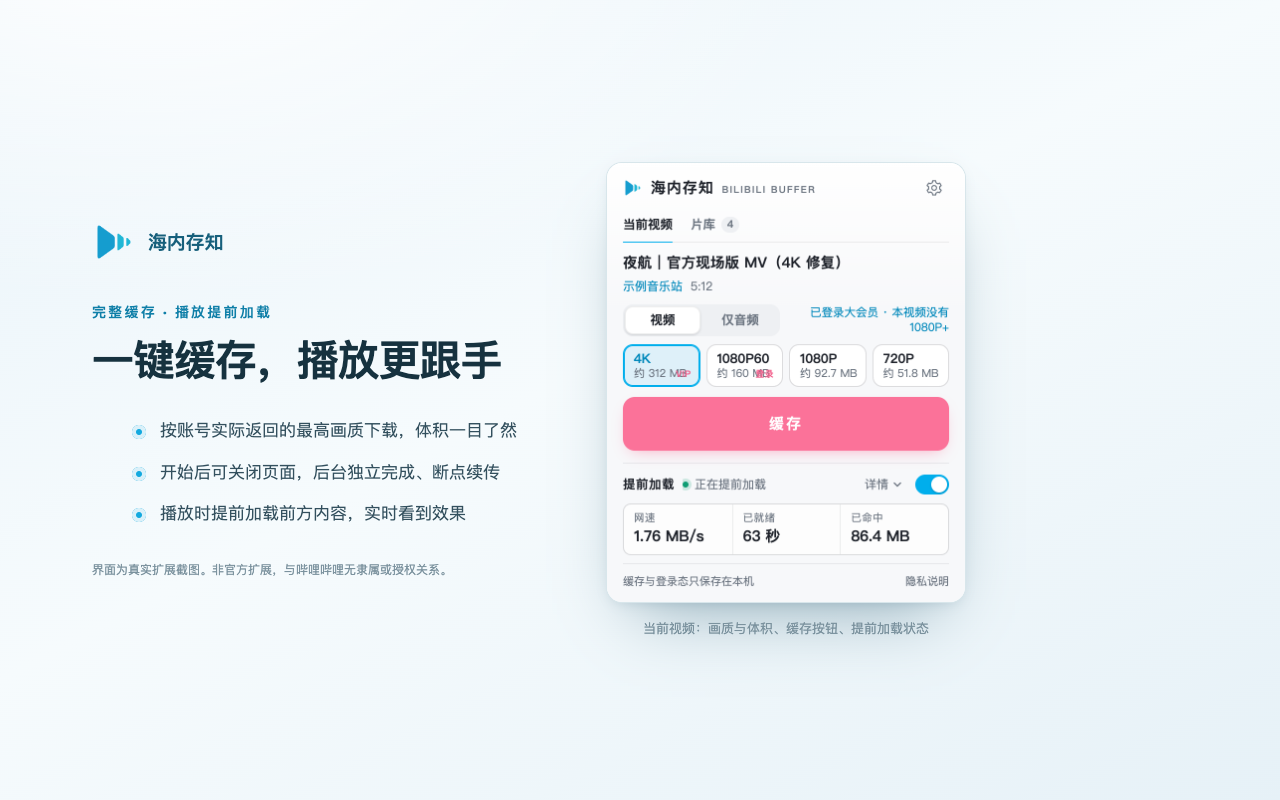
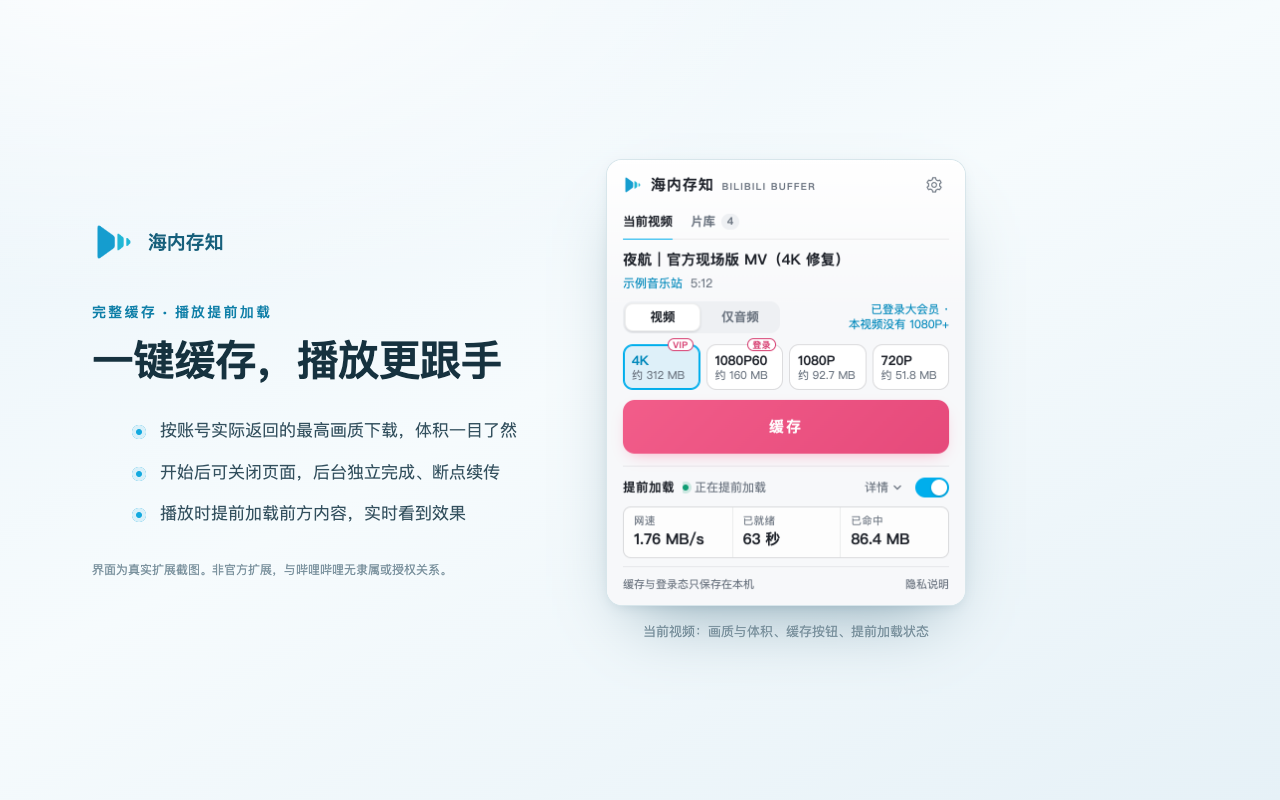
fix: keep quality badges clear of chip text and polish popup details
改了什么: 画质卡片的 VIP/登录 标记改为骑在右上边框上、脱离文档流的小胶囊，卡片改单列、收窄内边距，体积放不下时截断；账号说明按「 · 」分段、段内不换行；浅色/深色主按钮改为加深一档的粉色渐变；设置页眉加大返回按钮与标题间距；片库无封面时显示淡蓝渐变 + 播放三角占位；商店场景的版本号改读 manifest、截图前清掉脚本点击带来的焦点环，并重新生成截图。版本 2.12.2 → 2.12.3，同步 README、技术文档与开发日志。
为什么: 四档并排时卡片内容区约 55px，「约 312 MB」与标记互相压住、不带标记的体积也溢出；「1080P+」被单独挤到第二行；主按钮白字对比度仅约 2.6:1；离线时封面只剩一块灰。
验证: 先在 tests/run-popup-stability.mjs 补复现用例（修复前失败）；npm run check、npm test（223 通过）、npm run test:popup、npm run build 通过。

Changed region(s): [[0.4688, 0.2188, 0.75, 0.6875], [0.4688, 0.7188, 0.75, 0.8125], [0.7188, 0.2188, 0.75, 0.25]]

diff --git a/popup.css b/popup.css
@@ -21,7 +21,10 @@
   --blue-wash: rgba(0, 174, 236, 0.1);
   --pink: #fb7299;
   --pink-deep: #f25d8a;
-  --pink-fill: #fb7299;
+  /* 白字压在 #fb7299 上只有约 2.6:1；主按钮改用加深一档的同色相渐变（白字约 3.1–3.7:1），观感仍是 B 站粉。 */
+  --pink-fill: linear-gradient(135deg, #f25d8a, #e64a7b);
+  /* 小号粉色文字（画质卡片的 VIP/登录 标记）在白底上需要约 4.5:1。 */
+  --pink-ink: #d63a6e;
   --pink-glow: 0 6px 16px -8px rgba(251, 114, 153, 0.7);
   --success: #0f9d74;
   --warning: #b97a10;
@@ -73,7 +76,8 @@
     --blue-wash: rgba(58, 210, 255, 0.12);
     --pink: #ff6b9d;
     --pink-deep: #ff5590;
-    --pink-fill: linear-gradient(135deg, #ff7aa8, #ff5590);
+    --pink-fill: linear-gradient(135deg, #f8669a, #ea4580);
+    --pink-ink: #ff7aa8;
     --pink-glow: 0 8px 22px -10px rgba(255, 85, 144, 0.8);
     --success: #3ddc97;
     --warning: #ffb547;
@@ -274,6 +278,8 @@ svg { flex: none; }
 .current-owner { max-width: 60%; overflow: hidden; text-overflow: ellipsis; white-space: nowrap; }
 
 .format-controls { display: grid; gap: 8px; }
+/* 给骑边的 VIP/登录 标记留出空间，避免贴住上方的分段控件。 */
+.quality-row { padding-top: 3px; }
 .visually-hidden { position: absolute; width: 1px; height: 1px; overflow: hidden; clip-path: inset(50%); white-space: nowrap; }
 
 /* 内容二选一：等分的分段控件，选中项是一块抬起的浅色滑块。 */
@@ -304,17 +310,18 @@ svg { flex: none; }
   box-shadow: 0 1px 2px rgba(20, 26, 36, 0.14), inset 0 0 0 1px var(--line);
 }
 
-/* 画质：一排单选卡片，每张「短名 + 体积」；右上角小标记表示需要 VIP / 登录。 */
+/* 画质：一排单选卡片，每张「短名 + 体积」；需要 VIP / 登录的档位在右上角骑边挂一个小标记。
+   标记脱离文档流：四档并排时卡片内容区只有约 60px，「约 312 MB」已占满，再和标记同行必然互相压住。 */
 .quality-options { display: flex; flex-wrap: wrap; gap: 6px; }
 .quality-option {
   position: relative;
   display: grid;
   flex: 1 1 68px;
-  grid-template-columns: minmax(0, 1fr) auto;
-  align-items: baseline;
-  gap: 1px 2px;
+  grid-template-columns: minmax(0, 1fr);
+  gap: 1px;
   min-width: 0;
-  padding: 5px 8px 5px 10px;
+  /* 上内边距多 2px：文字盒顶端要低于骑边标记的下沿（卡片顶 + 6px）。 */
+  padding: 7px 8px 6px;
   border: 1px solid var(--line-strong);
   border-radius: 10px;
   background: var(--surface-raised);
@@ -327,11 +334,21 @@ svg { flex: none; }
 .quality-option:disabled[aria-checked="true"] { opacity: 1; }
 .quality-option-label { grid-column: 1 / -1; overflow: hidden; font-size: 13px; font-weight: 650; line-height: 1.25; text-overflow: ellipsis; white-space: nowrap; }
 .quality-option[aria-checked="true"] .quality-option-label { color: var(--blue-deep); }
-.quality-option-size { color: var(--ink-soft); font-size: 11px; line-height: 1.25; white-space: nowrap; }
+/* 字体更宽的平台（如 Windows 的雅黑）仍可能放不下，截断兜底；完整体积在卡片 title 里。 */
+.quality-option-size { overflow: hidden; color: var(--ink-soft); font-size: 11px; line-height: 1.25; text-overflow: ellipsis; white-space: nowrap; }
 .quality-option-tag {
-  color: var(--pink-deep);
+  position: absolute;
+  /* 高 13px、上移 7px：下沿正好落在卡片内边距上缘，不碰档位文字。 */
+  top: -7px;
+  right: 6px;
+  padding: 0 4px;
+  border: 1px solid currentColor;
+  border-radius: 999px;
+  background: var(--surface-raised);
+  color: var(--pink-ink);
   font-size: 9px;
   font-weight: 700;
+  line-height: 11px;
   letter-spacing: 0.04em;
 }
 .quality-empty { grid-column: 1 / -1; padding: 9px 0; color: var(--ink-soft); font-size: 12.5px; }
@@ -351,7 +368,12 @@ svg { flex: none; }
   font-size: 11.5px;
   line-height: 1.35;
   text-align: right;
+  /* 两行时尽量等长，避免「不全」这类两三个字被单独甩到第二行。 */
+  text-wrap: balance;
 }
+/* 分段整体折行而不是 nowrap：nowrap 会让一整句不含「 · 」的长警告变成一条不可断的长串，
+   把整列撑出右侧边距；inline-block + max-width 让短段整体换行，超长段仍可在段内折行。 */
+.field-note .text-segment { display: inline-block; max-width: 100%; }
 .field-note[data-tone="member"] { color: var(--blue-deep); }
 .field-note[data-tone="warning"] { color: var(--warning); }
 
@@ -544,16 +566,30 @@ svg { flex: none; }
   border-bottom: 1px solid var(--line);
 }
 .video-item:last-child { border-bottom: 0; }
+/* 封面来自 B 站图床：离线观看、图床被墙或任务没带封面时只剩底色，所以底色本身要像一张「视频占位」
+   （淡蓝渐变 + 播放三角），而不是一块灰。img 设为定位元素，加载成功时盖住占位图形。 */
 .cover-wrap {
   position: relative;
   width: 72px;
   height: 45px;
   overflow: hidden;
   border-radius: 6px;
-  background: var(--surface-soft);
+  background: linear-gradient(135deg, var(--blue-wash), transparent 75%), var(--surface-soft);
   box-shadow: inset 0 0 0 1px var(--line);
 }
-.cover-wrap img { width: 100%; height: 100%; object-fit: cover; }
+.cover-wrap::before {
+  content: "";
+  position: absolute;
+  inset: 0;
+  width: 12px;
+  height: 14px;
+  margin: auto;
+  background: var(--line-strong);
+  clip-path: polygon(0 0, 100% 50%, 0 100%);
+  /* 三角形重心在左 1/3，几何居中看起来偏左，右移 1px 做视觉居中。 */
+  transform: translateX(1px);
+}
+.cover-wrap img { position: relative; width: 100%; height: 100%; object-fit: cover; }
 .cover-status {
   position: absolute;
   right: 3px;
@@ -619,7 +655,7 @@ svg { flex: none; }
 
 /* ---- 设置 ------------------------------------------------------------------- */
 
-.settings-head { display: flex; align-items: center; gap: 4px; margin: -6px 0 6px -8px; }
+.settings-head { display: flex; align-items: center; gap: 8px; margin: -6px 0 6px -8px; }
 .settings-head h2 { font-size: 14.5px; font-weight: 640; letter-spacing: 0.02em; }
 .settings-group { display: grid; gap: 6px; padding: 10px 0; border-bottom: 1px solid var(--line); }
 .settings-group:last-child { border-bottom: 0; }

diff --git a/src/popup.js b/src/popup.js
@@ -565,7 +565,7 @@ function renderAuthNote(ladder) {
     text = "未登录：只能缓存公开画质"; tone = "warning"; title = "在当前 Chrome 登录 B 站后可缓存更高画质";
   }
   note.hidden = !text || isAudioMode() && tone !== "warning";
-  setText(note, text);
+  setSegmentedText(note, text);
   note.dataset.tone = tone;
   note.title = [title, ladder?.title].filter(Boolean).join("\n");
 }
@@ -1117,6 +1117,24 @@ function setAttr(element, name, value) {
 
 function setText(element, text) {
   if (element.textContent !== text) element.textContent = text;
+}
+
+/**
+ * 按「 · 」分段写入，每段作为整体折行：右对齐的短说明优先在分隔点折行，
+ * 否则「已登录大会员 · 本视频没有 1080P+」会把「1080P+」单独挤到第二行。
+ * 段落不能设成 nowrap：不含分隔点的长警告会变成一条不可断的长串，撑出右侧边距（见 popup.css）。
+ * 文本不变时不重建节点（textContent 与原句一致，可直接比较）。
+ * @param {HTMLElement} element
+ * @param {string} text
+ */
+function setSegmentedText(element, text) {
+  if (element.textContent === text) return;
+  element.replaceChildren(...text.split(" · ").flatMap((part, index) => {
+    const segment = document.createElement("span");
+    segment.className = "text-segment";
+    segment.textContent = part;
+    return index ? [" · ", segment] : [segment];
+  }));
 }
 
 function showToast(message, { action = "", onAction = null, duration = 1800 } = {}) {

diff --git a/技术文档.md b/技术文档.md
@@ -1,6 +1,6 @@
 # 海内存知技术文档
 
-> 适用版本：v2.12.2
+> 适用版本：v2.12.3
 > 最后核对：2026-10-22
 > 本文描述当前源码的实际行为；《开发日志.md》保留按时间展开的问题、试验与迭代记录。
 
@@ -72,7 +72,7 @@ flowchart TB
 
 界面按「正在做什么」与「偶尔才调」分层（2.11.0）：
 
-1. **当前视频**（一级页签，2.12.0 起）：标题、UP 主、时长、分 P；「内容」分段控件（视频 / 仅音频）与账号说明同占一行；画质不再用下拉，而是一排单选卡片（每张「短名 + 预计体积」，右下角小标记表示需要 VIP / 登录，下载中整组置灰）；粉色主按钮承载缓存状态（缓存 → 进度、已缓存字节与速度 → 已缓存 / 继续缓存），下载中它右侧内嵌圆形「暂停」图标按钮。下方「提前加载」标题行有开关与「详情」展开键，概览只有网速 / 已就绪 / 已命中三个数字；详细数据为两列读数（播放器缓冲、卡顿次数与累计时长、缓存占用 / 128 MB、加速请求与救援、最近节点；「异常」一行（交还原生 / 预热失败 / 隔离节点）仅在出现时显示并用警示色）。状态只依据 5 秒内的新鲜统计，过期时显示「等待视频播放」。整页（含展开的详细数据）须不超过 Chrome 弹窗的 600px，否则出现滚动条；`tests/run-popup-stability.mjs` 与 `npm run store:assets` 都会检查。
+1. **当前视频**（一级页签，2.12.0 起）：标题、UP 主、时长、分 P；「内容」分段控件（视频 / 仅音频）与账号说明同占一行（说明按「 · 」分段、每段作为 inline-block 整体折行并两行均衡；不能用 nowrap，否则不含分隔点的长警告会撑出右侧边距）；画质不再用下拉，而是一排单选卡片（每张「短名 + 预计体积」，需要 VIP / 登录的档位在卡片右上角骑边挂一个脱离文档流的小标记，不占体积那一行的宽度；体积放不下时截断，完整信息在卡片 title；下载中整组置灰）；粉色主按钮承载缓存状态（缓存 → 进度、已缓存字节与速度 → 已缓存 / 继续缓存），下载中它右侧内嵌圆形「暂停」图标按钮。下方「提前加载」标题行有开关与「详情」展开键，概览只有网速 / 已就绪 / 已命中三个数字；详细数据为两列读数（播放器缓冲、卡顿次数与累计时长、缓存占用 / 128 MB、加速请求与救援、最近节点；「异常」一行（交还原生 / 预热失败 / 隔离节点）仅在出现时显示并用警示色）。状态只依据 5 秒内的新鲜统计，过期时显示「等待视频播放」。整页（含展开的详细数据）须不超过 Chrome 弹窗的 600px，否则出现滚动条；`tests/run-popup-stability.mjs` 与 `npm run store:assets` 都会检查。
 2. **片库**（一级页签）：数量与总体积；每行封面（http 地址换成 https）、标题（点开原视频，已缓存时自动本地播放）、状态 · 体积 · UP 主（截断只截掉最次要的 UP 主）、未完成时一条细进度条，右侧固定两个 32×32 动作：下载中「暂停」/ 暂停或出错「继续」/ 完成「保存」，以及「删除」。继续走 `RESUME_CACHE`，不需要打开原视频。删除不弹确认框：行立即隐藏，提示条给出 6 秒「撤销」，超时或弹窗关闭（`pagehide`）才发出 `DELETE_VIDEO`；下载中的任务先暂停，撤销时再继续。
 3. **设置**（齿轮打开的二级视图，覆盖页签，返回按钮或 Esc 回到原页签）：进度条外观（唯一一条预览 + 图例、已播放颜色、单独标出提前加载、预设 / 自定义颜色、恢复默认）、浏览器自检（始终显示结论，失败时列出能力并可重新检测）、关于（版本、GitHub、隐私说明）。设置打开时隐藏重复的页脚，保证落在 Chrome 弹窗 600px 的高度上限内。
 

diff --git a/开发日志.md b/开发日志.md
@@ -17,6 +17,16 @@
 
 **仍未处理**：每个播放器请求仍先等一次离线复用查询（最多 1.5 秒）；`offscreen.js` 约 135 行死代码（`fetchDashTrackAndStore` / `fetchDashTrackCandidate`）；本地命中是否会推高 B 站自动画质尚未验证；`popup.js`、`mp4-merge.js` 未做审查。
 
+## 2.12.3 · 弹窗细节修复与新图标
+
+### 画质卡片标记重叠与弹窗细节
+
+- **问题**：四档画质并排时卡片内容区只有约 55px，「约 312 MB」与右侧的 VIP / 登录 标记互相压住；不带标记的「约 92.7 MB」（58px）其实也已溢出卡片。另有几处细节：账号说明「已登录大会员 · 本视频没有 1080P+」折行时把「1080P+」单独挤到第二行；浅色主按钮白字压在 `#fb7299` 上对比度只有约 2.6:1；设置页返回按钮的焦点环贴住标题；片库没有封面（离线、图床不可达）时只剩一块灰。
+- **修复**：标记改为脱离文档流、骑在卡片右上边框上的小胶囊（文字色单独用 `--pink-ink`，白底约 4.5:1），卡片改单列并收窄左右内边距，体积放不下时截断（完整信息在 title）；账号说明按「 · 」分段、每段整体折行（`setSegmentedText`，文本不变不重建节点；用 inline-block 而非 nowrap，否则不含分隔点的长警告会把整列撑出右侧边距）并 `text-wrap: balance`；主按钮改为加深一档的同色相渐变（白字约 3.1–3.7:1，深色同步）；设置页眉间距 4 → 8px；封面底色改为淡蓝渐变 + 播放三角占位。
+- **商店截图**：场景夹具的「关于」版本号改读真实 manifest（此前写死 2.11.1）；脚本点击打开设置后清掉焦点，截图不再带键盘焦点环；重新生成截图。
+- **测试**：先在 `tests/run-popup-stability.mjs` 补复现用例（商店场景四档 + VIP/登录：体积/档位不溢出、标记不压文字、不伸进上方控件、不压相邻卡片、不被遮挡；账号说明每段只占一行；「登录状态受限」长警告下左右边距对称、无元素越过右侧边距），修复前失败、修复后通过。
+- 验证：npm run check、npm test、npm run test:popup、npm run build。
+
 ## 2.12.2 · 更名为「海内存知」
 
 - **名称**：「影哨」更名为**海内存知**。取自「海内存知己，天涯若比邻」，断成「海（外）· 内存 · 知（己）」：面向海外用户、把视频提前存进本机内存；下半句「天涯若比邻」对应 CDN 远在天涯、数据已缓存到身边，用作 README 题记。旧名的「哨」偏监控含义，与提前加载和片库都不贴切。仍不含 Bili / B 站关键词，商标考量与 2.8.11 一致。
